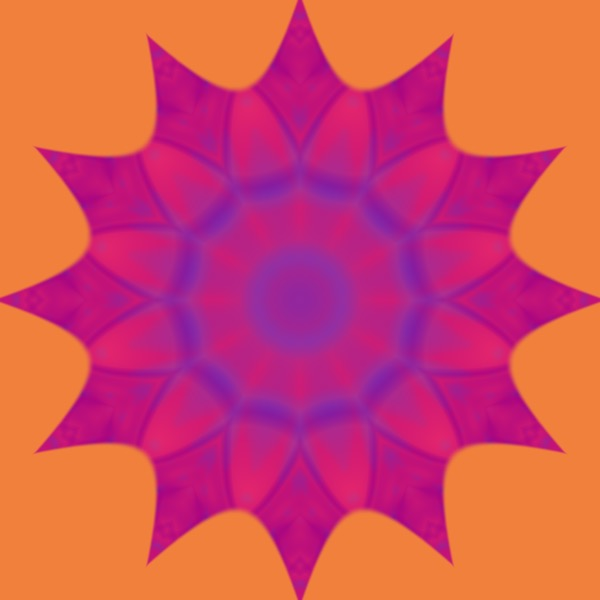
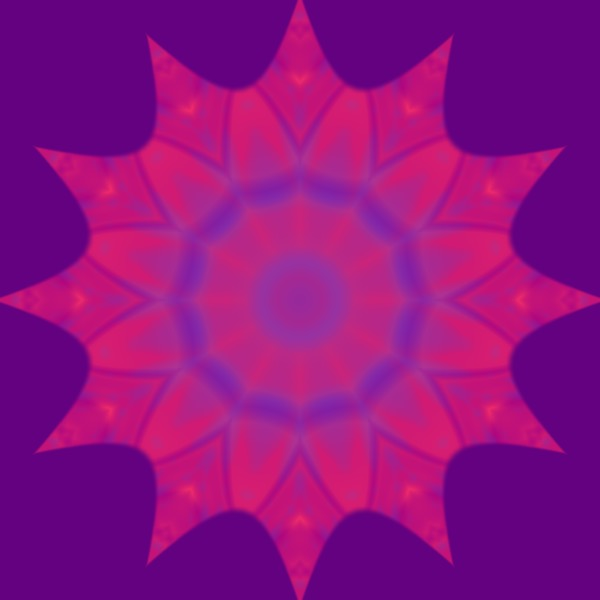
update readme and replace image

diff --git a/README.md b/README.md
@@ -22,8 +22,8 @@
     margin-right: auto;" width="600" /><br /><sub><b>Four Color Kaleidescope<br/></b>p5 sketch</sub></a></td>
     </tr>
     <tr>
-      <td align="center"><a href=""> <img class="img" src="assets/tiedye1.jpg" alt="Tie Dye" style="vertical-align:top;" width="600" /><br /><sub><b>Two Color Tie Dye<br/></b>p5 sketch</sub></a></td>
-     <td align="center"><a href=""> <img class="img" src="assets/tiedye-texture.jpg" alt="Kaleidoscope as texture" style=" display: block;
+      <td align="center"><a href=""> <img class="img" src="assets/img4.jpg" alt="Tie Dye" style="vertical-align:top;" width="600" /><br /><sub><b>Two Color Tie Dye<br/></b>p5 sketch</sub></a></td>
+     <td align="center"><a href=""> <img class="img" src="assets/img5.jpg" alt="Kaleidoscope as texture" style=" display: block;
     margin-left: auto;
     margin-right: auto;" width="600" /><br /><sub><b>Four Colors Filling Shape<br/></b>p5 sketch</sub></a></td>
     </tr>
